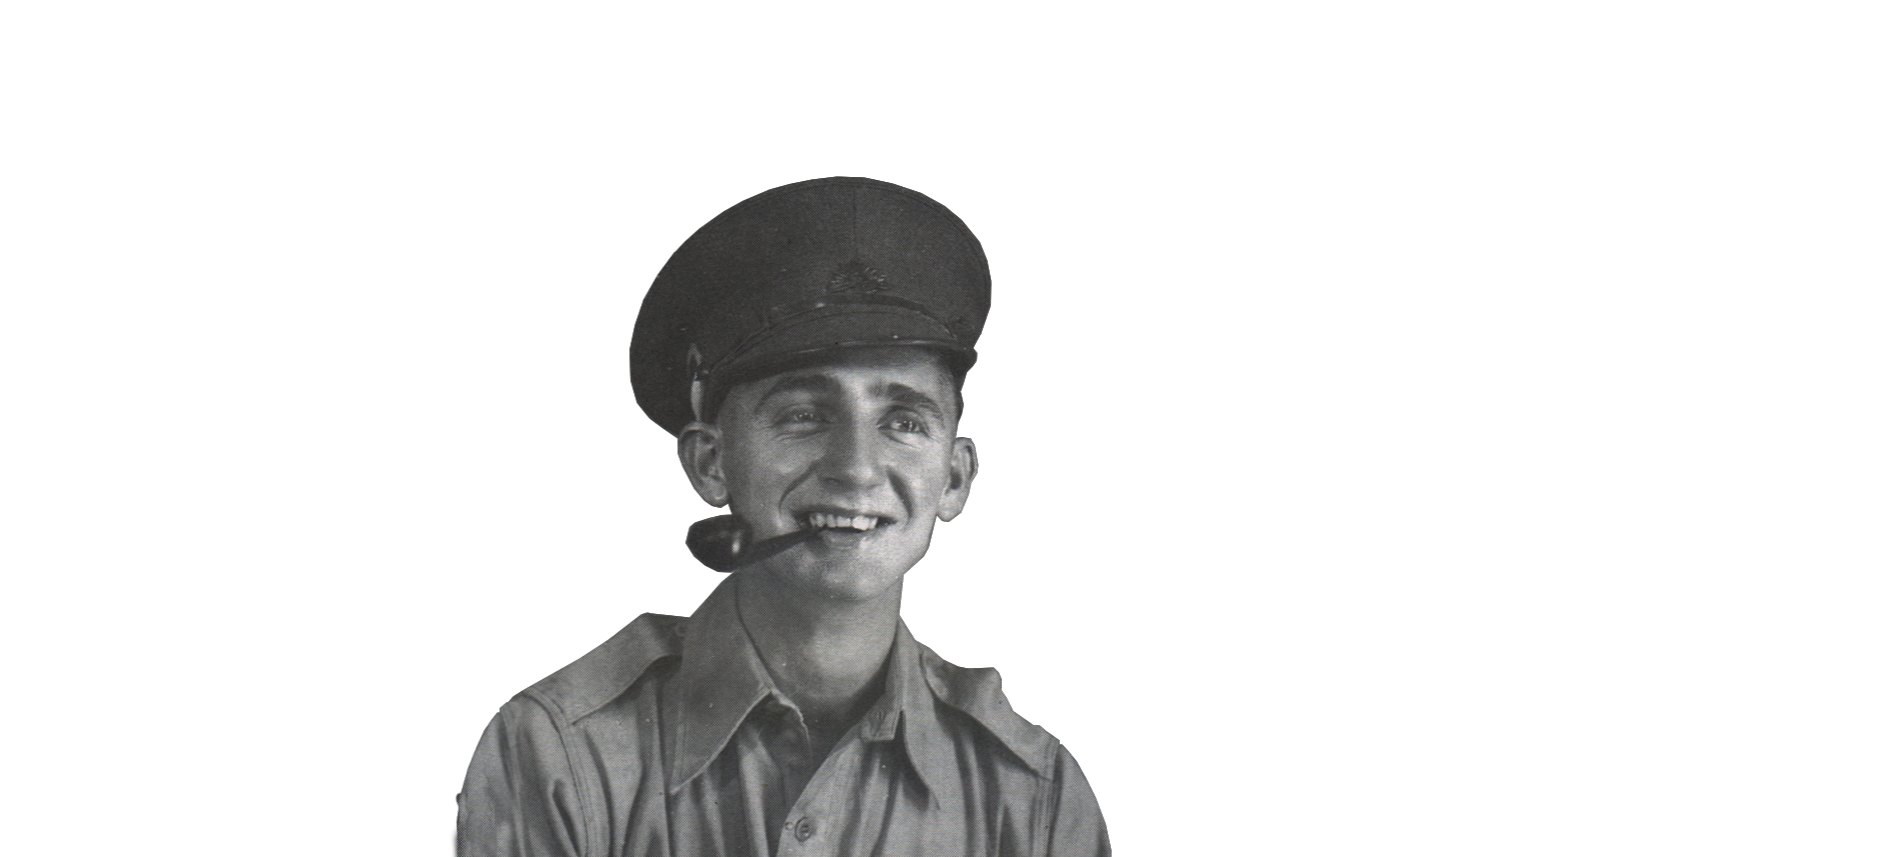
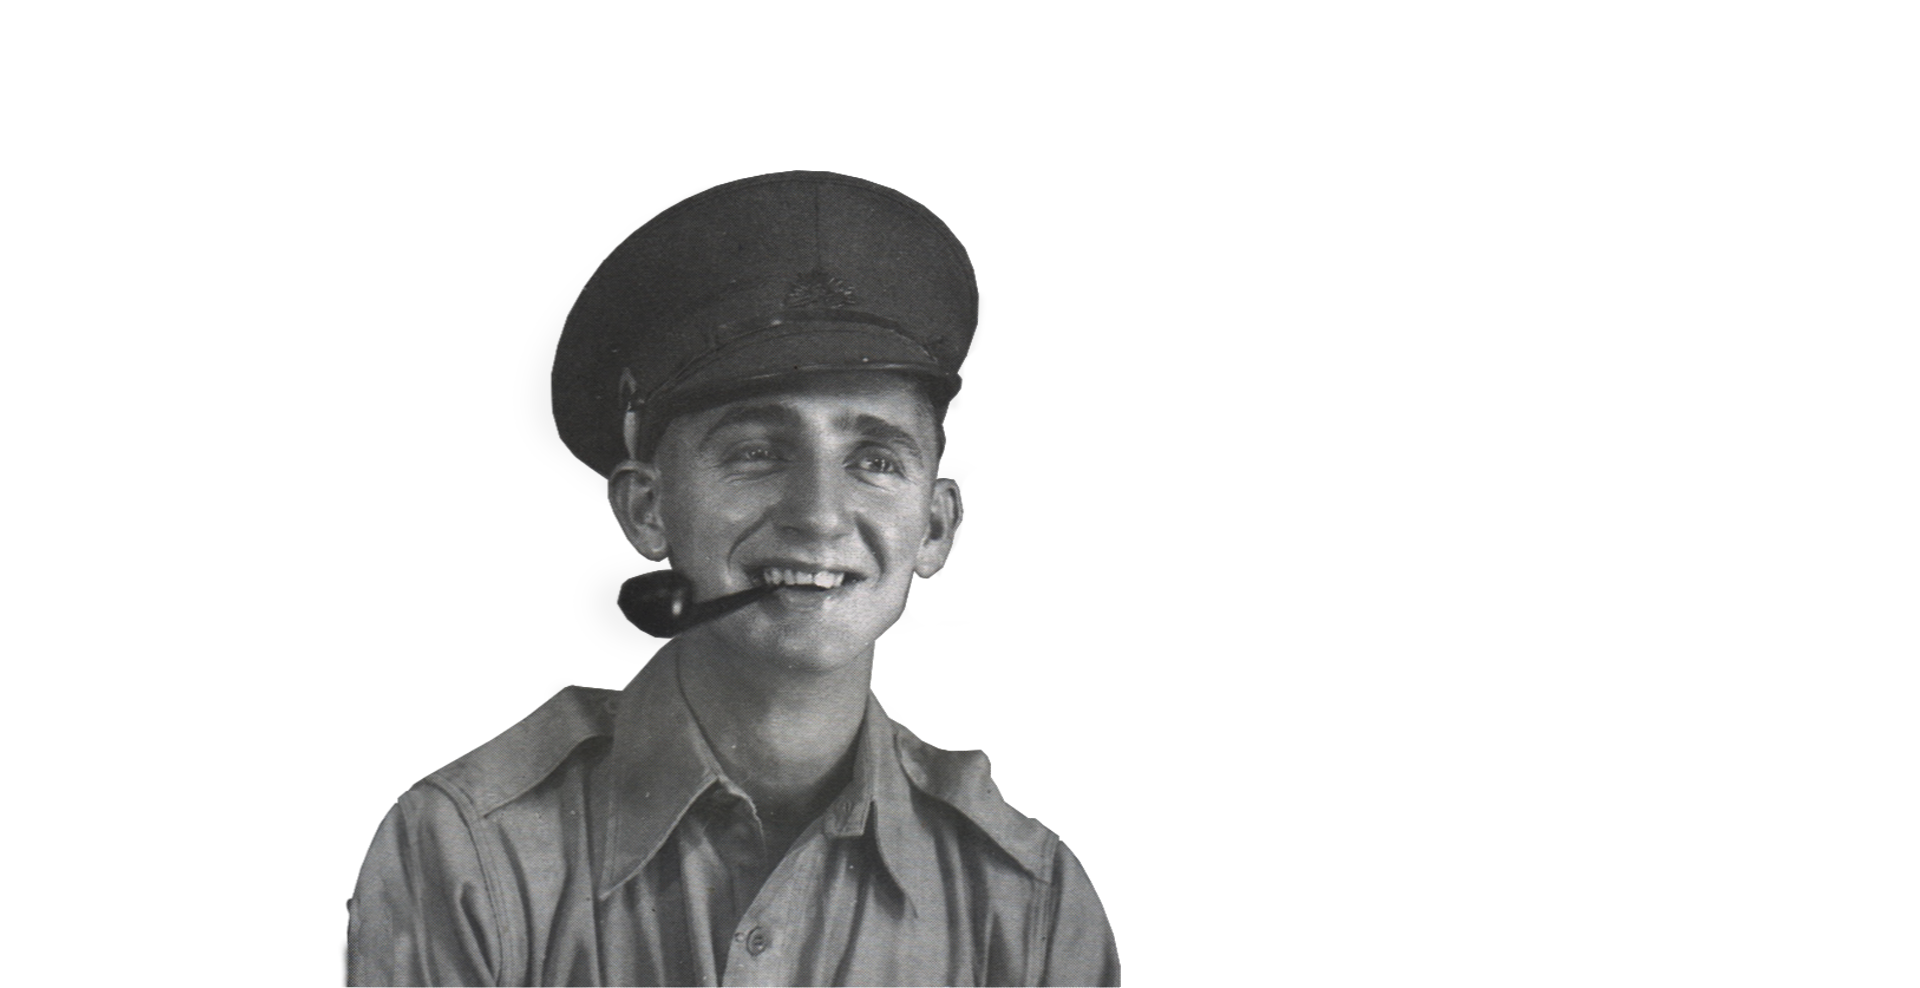
Updates Scene one

Changed region(s): [[0.1553, 0.1517, 0.59, 1.0]]

diff --git a/examples/simple.html b/examples/simple.html
@@ -18,14 +18,19 @@
 
 	<div id="container " class="container">
 		<ul id="scene" class="scene">
-			<li class="layer" data-depth="1.00"><img src="images/shorthand.png"></li><!--
-			<li class="layer" data-depth="0.80"><img src="images/jim.png"></li>
+			<li class="layer" data-depth="0.20"><img src="images/shorthand.png"></li>
+			<li class="layer" data-depth="0.15"><img src="images/glow.png"></li>
+			<li class="layer" data-depth="0.10"><img src="images/signature.png"></li>
+			<li class="layer" data-depth="0.25"><img src="images/jim.png"></li>
+		</ul>
+	</div>
 
-			<li class="layer" data-depth="0.60"><img src="images/layer3.png"></li>
-			<li class="layer" data-depth="0.40"><img src="images/layer4.png"></li>
-			<li class="layer" data-depth="0.20"><img src="images/layer5.png"></li>
--->
-			<li class="layer" data-depth="0.00"><img src="images/jim.png"></li>
+	<div id="container " class="container">
+		<ul id="scene" class="scene">
+			<li class="layer" data-depth="0.20"><img src="images/shorthand.png"></li>
+			<li class="layer" data-depth="0.15"><img src="images/glow.png"></li>
+			<li class="layer" data-depth="0.10"><img src="images/signature.png"></li>
+			<li class="layer" data-depth="0.25"><img src="images/jim.png"></li>
 		</ul>
 	</div>
 

diff --git a/examples/styles/styles.css b/examples/styles/styles.css
@@ -88,6 +88,7 @@ input[type=checkbox]:checked + label:before {
   opacity: 0.2;
 }
 
+/*
 .layer:nth-child(1) {
   opacity: 1;
 }
@@ -103,7 +104,7 @@ input[type=checkbox]:checked + label:before {
 }
 
 .layer:nth-child(3) {
-  opacity: 0.45;
+  opacity: 0.1;
 }
 .layer:nth-child(3) button {
   -webkit-transform: rotate(90deg);
@@ -128,3 +129,4 @@ input[type=checkbox]:checked + label:before {
 }
 .layer:nth-child(6) button {
 }
+*/
